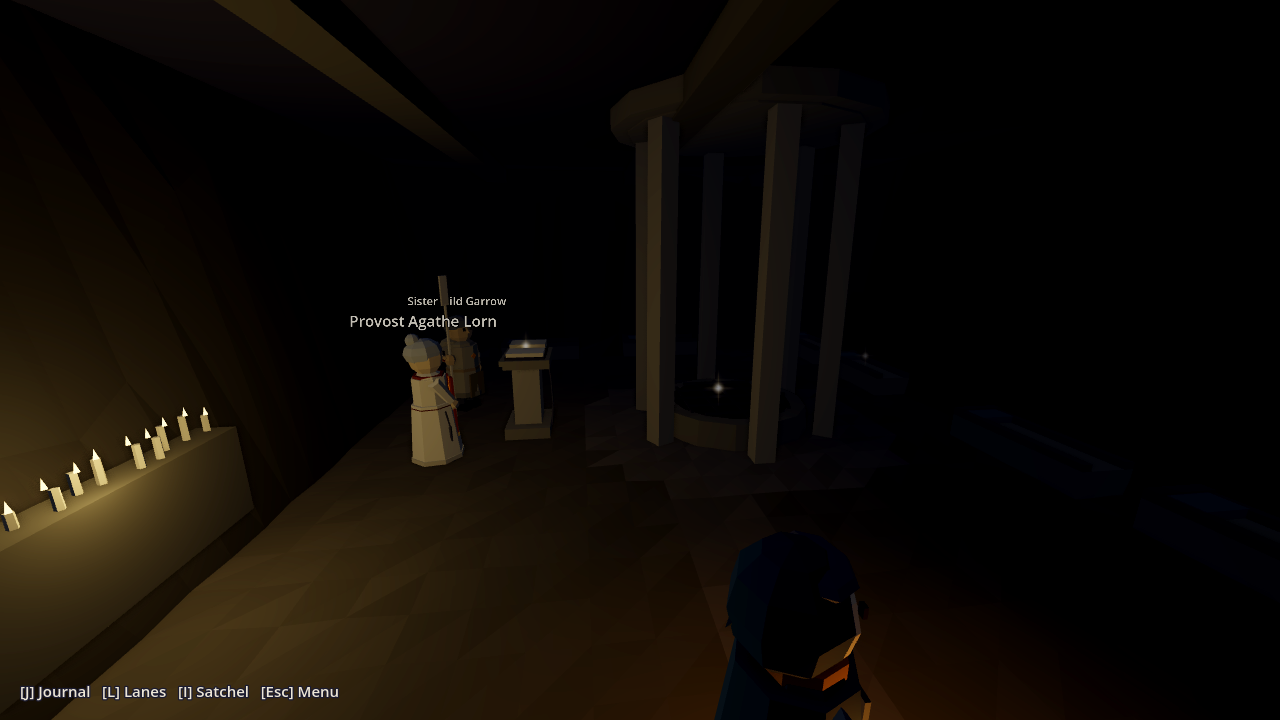
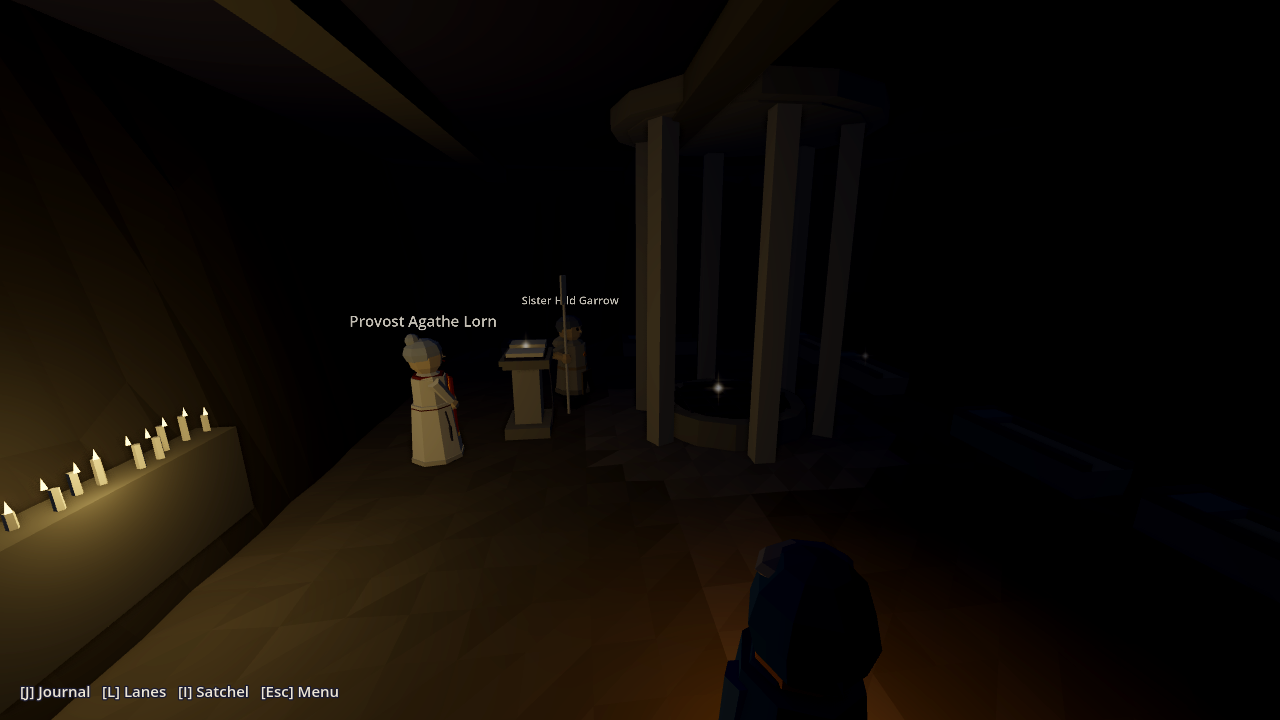
docs: devlog day 88, roadmap (polish thirteen done; the eighth boat next), tech (spawn_facing, scenario lint, paint drift), checkpoint, screenshot
Claude-Session: https://claude.ai/code/session_01G2g29kFtwJV7Z8jG7wcAT4

diff --git a/docs/ROADMAP.md b/docs/ROADMAP.md
@@ -691,25 +691,25 @@ each .glb < 5 MB.
       Hild carried them; the Provost sits down. **Who writes the Spire's line** in the Long Book (`cindermoor_spire_line`:
       provost / hand / open). The High Keeper's boat was always the eighth. Checkpoint `the_lower_rooms`; the smoke walk
       sleeps, goes down and reads. `test_the_lower_rooms.gd` (8).
+- [x] [P] **Polish/debt pass thirteen** (Day 88): region **`spawn_facing`** (`Player.face_towards`; the lower rooms open
+      on the flame's root, the crown's `from_lower` looks out at the ring; validated); `screenshot.gd`'s `--at` yaw turns
+      the Wakebearer with the camera (it did land with a `--scenario`; the body was facing the lens); the **scenario lint**
+      (`Scenarios.half_made`: a choice made with its quest left behind; quests carried open into a new act must be
+      restated — `the_boat_stair` restates *What the Ember Keeps*); paint/road legs that drift off an axis warn (the
+      woods' cart road straightened); Hild steps out from behind the Provost at the lectern. `test_polish_thirteen.gd` (8).
 
 ### Next up
-1. [P] **Polish/debt pass thirteen** (due now: the last was Day 84, and Days 85-87 were content). Carried items: a scenario
-   lint (a checkpoint leaving a quest mid-choice that a later checkpoint inherits); `screenshot.gd`'s `--at` is ignored when
-   a `--scenario` spawn applies; long shallow paint `path`s as a validator warning. New from Day 87: the player always spawns
-   facing -Z (`player.gd` `_visual.rotation.y = PI`), so the lower rooms open on the north wall, not the room — a spawn
-   `facing` (yaw per spawn point) would help every interior/stair arrival; a framed two-NPC shot for the reading (Provost +
-   Hild at the lectern); the lower rooms read very dark in the Compatibility renderer (check on Vulkan before brightening).
-2. [C] **The eighth boat's owner** (LORE Act III step 6, after the polish): Oriel did not leave — she walked out on the
+1. [C] **The eighth boat's owner** (LORE Act III step 6): Oriel did not leave — she walked out on the
    moor and chose to forget, among the Unmoored. The thread is laid: the hooded woman on the ring path (Days 83/86, the
    night's footsteps Day 87), "Eighth — kept back. Her word.", and now the Provost: "It was always the eighth." Who goes
    looking (the Provost will want to; Ness knows the moor), what `cindermoor_spire_line` and `cindermoor_sitting_spoke`
    change; the chapter is still below in the lower rooms (move them back up with the next flag). Do not name Isolde
    (#4) or explain the Wakebearer (#2) yet.
-3. [S] **The days pass on Cindermoor** — *decided Day 86:* Cindermoor's clock is a **story clock**, not a free-running
+2. [S] **The days pass on Cindermoor** — *decided Day 86:* Cindermoor's clock is a **story clock**, not a free-running
    day/night: flags move it, and each Cindermoor region carries light and fog overrides for it (`cindermoor_chapter_sat` →
    night, `cindermoor_chapter_up` → dusk; first match wins, so later times go first in the list). Follow-up with the lower
    rooms: the morning flag and a rest prompt; consider a shared "Cindermoor clock" helper if a fourth time of day comes.
-4. [C] **Act II follow-ups** (fold a line or two into later sessions; Kindleby/the ring are behind the player now, so most
+3. [C] **Act II follow-ups** (fold a line or two into later sessions; Kindleby/the ring are behind the player now, so most
    need Act III to look back — letters, Oda's talk, or Keepers come down the lane in, LORE plan step 4):
    Aldous and the Hood-Pin (the hand on the stair; "tonight"); the Provost or Tobin seeing the
    Hood-Pin; Iver home on Kindleby meeting Tobin/the colliers; the `stayed`
@@ -717,17 +717,18 @@ each .glb < 5 MB.
    the Lamp on Wenna's bend; the colliers on Kindleby (Ottie looking north — does anyone go home?); Tobin/Oda noticing the
    colliers on the wall; the Lamp (a Keeper) seeing the Stair-Taper; the Low Water from Saltmarrow's side (Aldous, Mara —
    the Gull looks south over it). Pell isn't on the Mercy in Act III (they stayed at Bram's camp if they crossed).
-5. [P] **Color grading pass on a Vulkan machine** — also the Compatibility-renderer paint contrast items (Day 84 left
+4. [P] **Color grading pass on a Vulkan machine** — the lower rooms read very dark in Compatibility (Day 87: judge on
+   Vulkan before brightening); also the Compatibility-renderer paint contrast items (Day 84 left
    them: they need a real screen to judge); also check the ember's pool of clear in the fog (Day 78: subtle in
    Compatibility; the warm rim `ember_rim` barely shows), the Low Water chart mark and the conversation framing
    on a real screen — sandbox screenshots (Compatibility
    renderer) are washed out; verify palette reads correctly in Forward+ (incl. beacon glow,
    the Day 12 glow/contrast/saturation grading, SSAO strength, the water colours).
    Needs the owner to run the game locally and report back.
-6. [S] **Settings follow-ups** (deadzone, display/vsync, text speed and pad prompts landed Day 56): gamepad
+5. [S] **Settings follow-ups** (deadzone, display/vsync, text speed and pad prompts landed Day 56): gamepad
    rebinding (a Controls column for pad buttons); pad-specific glyph sets (PlayStation/Switch face names via
    `Input.get_joy_name`); a resolution/scale option for windowed mode. (The "[Esc] back" hints follow the pad since Day 61.)
-7. [S] **The Greying v2** (fold pieces into later sessions): fog pockets/banks on
+6. [S] **The Greying v2** (fold pieces into later sessions): fog pockets/banks on
    Saltmarrow and Shingle Point too (offshore, leaning back after the burn); (the ember light
    pushing fog back round the player: Day 78 — follow-up: let it ease the environment fog's thickening too if it reads
    weakly in Forward+); paths that fade in thick fog
@@ -735,7 +736,7 @@ each .glb < 5 MB.
    drifting in a pocket; (the audio cue — muffle + heartbeat — landed Day 46); colourblind-safe meter check
    with the accessibility item. (The first turn-back flag and Aldous's remark: Day 78 — others could notice it too:
    Bram, Hesper on the fen.)
-8. [S] **Audio follow-ups** (v1 landed Day 46): **a listening pass by the owner** (levels, the gulls' and
+7. [S] **Audio follow-ups** (v1 landed Day 46): **a listening pass by the owner** (levels, the gulls' and
    voices' timbre, whether the heartbeat is too much — export them with `tools/debug/export_sounds.gd`);
    **music** (title theme and lighting cue landed Day 74: an owner listen; a quiet motif for Act ends and the ferry
    crossings; a sparse in-world piece per island later — or real recordings); oars as the skiff comes in (with the
@@ -743,14 +744,15 @@ each .glb < 5 MB.
    the shoreline instead of everywhere at once, the ferry's creak, the Unmoored's breath); paint-zone surfaces (a
    path of stone through grass) and NPC footsteps; dialogue `sound` on more story beats (the bramble wall parting,
    the Book shut, the horn on every sailing).
-9. [A] **Dressing follow-ups** (next art-led session due ~Day 84-86; last Day 81 new kit / Day 76 dressing): Cindermoor — the east stair door reads shut, not ajar; the worn ring round the Spire barely shows (Day 83). Kindleby — the Quiet House's step
+8. [A] **Dressing follow-ups** (next art-led session due ~Day 84-86; last Day 81 new kit / Day 76 dressing): Cindermoor — the east stair door reads shut, not ajar; the worn ring round the Spire barely shows (Day 83). Kindleby — the Quiet House's step
    candle at night once day/night exists, the chapter-house's interior wall, someone at the quay bell's rope when Tobin
    walks off; Wrackholm's empty bracket; the Teeth's broken water; (Pell's gull: Day 67); (the oars: Day 76); (Hild scraping the
    skiff: Day 71; her scrape sound: Day 74); the skiff's tar reads pale in the Compatibility renderer.
    Saltmarrow: paint contrast in the Compatibility renderer (walkway
    vs. slate); a lit-window variant for nights once day/night exists; (the brazier's ash raked after a `full` confession: Day 47); the mended lofts could get someone at work on
    them (Tam off the gate?) once Saltmarrow has more people. (Aldous seated and the gate lofts: Day 32.)
-10. [S] Interaction polish follow-ups (framing and the body fade landed Day 73): frame seated/low NPCs a touch lower
+9. [S] Interaction polish follow-ups (framing and the body fade landed Day 73; spawn facing Day 88 — add
+   `spawn_facing` to older stair/door arrivals as they're touched): frame seated/low NPCs a touch lower
    (Hesk, Aldous on the bench); a framed shot for two-NPC scenes (Hild and the Provost) — today it frames whoever was
    talked to; in tight spots (the Mercy's deck) the arm pulls in to ~2 m and the shot is crowded.
 

diff --git a/docs/TECH.md b/docs/TECH.md
@@ -192,6 +192,7 @@ Every record lives in its own file whose name equals its `id`.
   "ambience": [{"sound": "surf", "volume": 0.8, "if": condition}],  // looping layers — see "Audio"
   "footsteps": "shingle", "footsteps_raised": "stone",  // surfaces (audio.json); raised = decks etc. (default boards)
   "spawn_points": {"default": [x,y,z], ...},    // "default" required
+  "spawn_facing": {"from_stair": [x, z]},       // optional (Day 88): the point a spawn looks toward on arrival
   "ground": {...},                              // sculpted terrain — see "Ground" below
   "terrain": [{"size": [w,h,d], "position": [x,top_y,z], "color": "moss", "rotation_y": 0}],  // legacy slabs (absolute y)
   "props":   [{"model": "res://assets/models/x.glb", "collider": [w,h,d],   // or
@@ -540,6 +541,12 @@ Entry points: `--scenario=<id>` (main.gd), `GameState.start_scenario(id)`, the p
 **Chapter select (dev)** page (only when `OS.is_debug_build()`), and `tools/checkpoints.sh`
 (gallery: `docs/CHECKPOINTS.md`). Validated with the content (`ContentValidator` → `Scenarios.validate`:
 known region/spawn, earlier `inherits`, declared flags, real quest stages/items/pickups).
+**Scenario lint (Day 88, `Scenarios.half_made`):** (1) *a choice half made*: any dialogue step or option that
+sets flags (to non-default values) **and** moves a quest on is one choice; a resolved checkpoint holding all of those
+flag values while that quest is started but short of the stage (or not done) is an error. (2) *Carried across an act*:
+a checkpoint whose `inherits` is in another `act` must restate, in its own `quests`, every quest it carries open (or
+close it). Leaving a quest open across an act is then a written decision. `the_boat_stair` restates *What the Ember
+Keeps* this way.
 **Rule:** every content session adds a checkpoint for what it built (with a `shot` that frames
 it) and re-runs `tools/checkpoints.sh` for the new ids. Checkpoints are hand-written state,
 not recordings of play: `test_scenarios.gd` checks the late ones still lead on (Oda casts off
@@ -668,7 +675,11 @@ headland areas carry `!quest:a_light_for_saltmarrow=done` and smaller pockets ap
 - **The way in is a dialogue `travel`**, not an exit: exits are always present and can't take an `if`, and the stair only
   exists once the seat is lifted, so the niche's "Go down the stair." (`if: flag:cindermoor_morning`) travels to
   `from_stair`. The way back up is an ordinary exit to the crown's `from_lower` spawn.
-- **Known:** every spawn faces -Z (`player.gd`), so the room opens on the north wall; a per-spawn yaw is a polish item.
+- **Face the room (Day 88):** region `spawn_facing` maps a spawn to an `[x, z]` point. On arrival by that spawn
+  (`main.gd` `load_region`, not when a save restores an exact position) `Player.face_towards` turns the body toward it
+  and sets the camera yaw behind. Spawns without one keep the Wakebearer's heading. A spawn without an entry falls back
+  to `default`'s. Validated: a known spawn, `[x, z]`, and not the spawn's own spot. Use it for every stair foot,
+  doorway and interior arrival. The lower rooms face the flame's root, and the crown's `from_lower` faces out to the ring.
 - The chapter's placements below carry `cindermoor_chapter_up` as well as `cindermoor_morning`: the validator's
   exclusivity proof needs the flag the quay placements negate (it found `chapter_up` false + `morning` true otherwise).
 - **The story clock (Day 86) gets its first rest:** the crown's `foot_rest` object (`if` sat and not morning) plays
@@ -726,6 +737,8 @@ characters.
   "colors": {"ground": "moss", "shore": "driftwood", "shore_height": 0.35,
              "seabed": "slate", "cliff": "slate", "cliff_slope": 0.9},
   "paint": [{"rect"|"ellipse"|"path": ..., "width": 2, "color": "driftwood", "if"?: cond}],  // first wins
+  // Day 88: a path leg ≥ 10 m that drifts off an axis (slant 0.001..0.1) warns: its edge shows a lone step on the
+  // 1 m grid (ContentValidator.sawing_legs; cresset `road`s too). Run straight legs at a constant x or z.
   "piers": [{"rect": [x0,z0,x1,z1], "deck": 0.275}],  // walkable decks over water (absolute y)
   "note": "free text"
 }

diff --git a/docs/DEVLOG.md b/docs/DEVLOG.md
@@ -2,6 +2,49 @@
 
 Newest entries first. Each entry: what was done, decisions & why, problems, next steps.
 
+## 2026-11-06 21:00 UTC — Day 88: polish pass thirteen (polish)
+
+**Did**
+- Tooling: `tools/setup.sh` worked first try (Godot 4.7.2 + bpy 5.2.2). Detached HEAD again; `origin/main` had been
+  force-updated to Day 87's `1e10f66`, and I reset `main` to it. Baseline: 625 tests + smoke + launch green.
+- **Polish pass thirteen** (ROADMAP *Next up* #1; Days 85-87 were content):
+  - **A spawn can face somewhere.** New region key `spawn_facing` (`{spawn: [x, z]}`). On arrival by that spawn,
+    `Player.face_towards` turns the Wakebearer toward the point and sets the camera behind them. The lower rooms now open
+    on the flame's root, the lectern and the chapter, not the north wall. Coming back up, the crown's `from_lower` looks
+    out at the candle ring. The validator checks for a known spawn, `[x, z]`, and a point that isn't the spawn's own spot.
+  - **`--at` with `--scenario`.** It did land: the carried note was wrong about the cause. The real fault was that its yaw
+    turned only the camera, so the Wakebearer's face filled the shot. It now uses `face_towards` too.
+  - **Scenario lint** (`Scenarios.half_made`, run by the validator). Rule 1, a choice half made: if a dialogue step or option sets
+    flags and moves a quest on, a checkpoint holding all those flags must have that quest moved on too. Rule 2, carried
+    across an act: a checkpoint that opens a new act must restate every quest it carries open. Rule 1 alone wouldn't have
+    caught Day 80's bend (`walked` + `her_hearth` is a consistent pair, only the wrong moment), which is why rule 2 exists.
+    Current content passes rule 1. Rule 2 asked `the_boat_stair` to restate *What the Ember Keeps* (open on purpose), and it does now, with a note.
+  - **Paths that drift off an axis warn** (`ContentValidator.sawing_legs`, on paint paths and cresset roads). It covers a leg of
+    at least 10 m with a slant of 0.001-0.1, the Day 84 failure. One hit: the woods' old cart road ran 0 → 0.5 m over 30 m, and
+    it's straight now.
+  - **Hild steps out from behind the Provost** at the lectern (−2.7, 3.7 → −2.6, 1.7, the near side of the lectern). From
+    the stair foot the four of them (Provost, lectern, Hild, the root) now read separately.
+- **Tests:** `test_polish_thirteen.gd` (8). Checkpoint `the_lower_rooms` re-shot. 633 tests + smoke + launch pass.
+
+Screenshot: `docs/screenshots/2026-11-06-pm-lower-rooms-arrival.png` (arriving in the lower rooms, facing the room).
+
+**Decisions**
+- **Facing is a point, not a yaw.** `[x, z]` is easier to write from a map and to validate, and it doesn't depend on the
+  camera's sign conventions. It is a separate key so `spawn_points` stays plain `[x, y, z]` for the dozen readers of it.
+- **A restored save keeps its own position and doesn't turn.** Only spawn arrivals face.
+- **The paint warning is narrow on purpose.** The first version (any leg ≥ 6 m, slant < 0.5) warned 28 times, almost
+  all on wandering woodland tracks, where a step every few metres reads as ragged ground. Only a near-axis drift on a
+  long leg shows the lone step.
+- **Not done:** the framed two-NPC shot. It is a camera feature, and moving Hild fixes the case that prompted it. The lower
+  rooms' darkness stays with the owner's Vulkan pass.
+
+**Problems / notes**
+- I again started editing while the baseline gate ran. This time it passed, but next run should wait for it.
+
+**Next run should**
+1. ROADMAP *Next up* #1: **the eighth boat's owner** (content, LORE Act III step 6). Fetch and reset `main` before
+   trusting it. Bring the chapter back up from the lower rooms with the next flag. Use `spawn_facing` on any new arrival.
+
 ## 2026-11-06 09:00 UTC — Day 87: what the Firstflame ate (content)
 
 **Did**

diff --git a/docs/CHECKPOINTS.md b/docs/CHECKPOINTS.md
@@ -1,7 +1,7 @@
 # Emberwake — Story checkpoints
 
 Where the game is up to, one screenshot per story checkpoint. Generated by
-`tools/checkpoints.sh` from `data/scenarios.json` (at commit `a35d531`, 2026-11-06 09:28 UTC).
+`tools/checkpoints.sh` from `data/scenarios.json` (at commit `1e10f66`, 2026-11-06 21:23 UTC).
 
 Play from any of them: `godot --path . -- --scenario=<id>`, or in a debug build open the
 pause menu (Esc) → **Chapter select (dev)**. `--scenario=list` prints them all.
